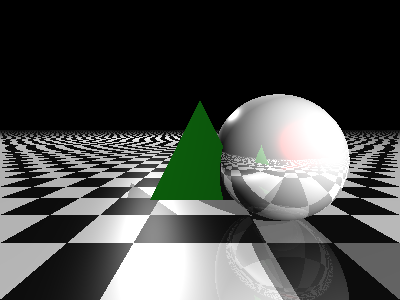
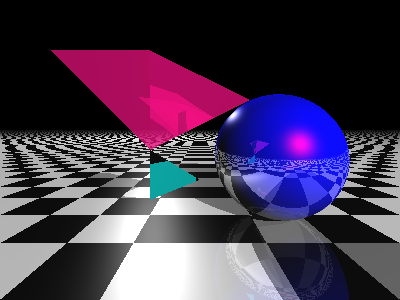
Triangles strip

Changed region(s): [[0.12, 0.15, 0.9, 0.75], [0.63, 0.84, 0.87, 1.0]]

diff --git a/scene.py b/scene.py
@@ -4,7 +4,7 @@ from util import normalize
 
 
 class Scene():
-	def __init__(self, height, width):
+	def __init__(self, height, width, name = "Scene 1"):
 		self.height = height
 		self.width = width
 		self.img = np.zeros((height, width, 3))
@@ -16,6 +16,7 @@ class Scene():
 		self._lights = []
 		self._figures = []
 		self.depth_max = 5
+		self.name = name
 
 	def add_camera(self, camera):
 		self._camera = camera
@@ -24,13 +25,13 @@ class Scene():
 		self._lights.append(light)
 
 	def add_lights(self, lights):
-		self._lights = lights
+		self._lights.extend(lights)
 
 	def add_figure(self, figure):
 		self._figures.append(figure)
 
 	def add_figures(self, figures):
-		self._figures = figures
+		self._figures.extend(figures)
 
 	def save(self, filename = 'fig.png'):
 		plt.imsave(filename, self.img)
@@ -67,13 +68,13 @@ class Scene():
 			col_ray += obj.specular_c * max(np.dot(N, normalize(toL + toO)), 0) ** self._specular_k * light.color
 		return obj, M, N, col_ray
 
-	def draw(self):
+	def draw(self, verbose = 1):
 		r = float(self.width) / self.height
 		S = (-1., -1. / r + .25, 1., 1. / r + .25)
 		col = np.zeros(3)
 
 		for i, x in enumerate(np.linspace(S[0], S[2], self.width)):
-			if i % 10 == 0:
+			if i % 10 == 0 and verbose >= 1:
 				print(f'{i / float(self.width) * 100}%')
 			for j, y in enumerate(np.linspace(S[1], S[3], self.height)):
 				col[:] = 0
@@ -94,3 +95,12 @@ class Scene():
 				    col += reflection * col_ray
 				    reflection *= obj.reflection
 				self.img[self.height - j - 1, i, :] = np.clip(col, 0, 1)
+
+
+	def __str__(self):
+		out = f'{self.name}:\n'
+		for f in self._figures:
+			out += ' - '
+			out += f.__str__()
+			out += '\n'
+		return out

diff --git a/raytracing.py b/raytracing.py
@@ -6,7 +6,7 @@ from triangle import Triangle
 from light import Light
 from camera import Camera
 from scene import Scene
-
+from triangle_strip import TriangleStrip
 
 w = 400
 h = 300
@@ -15,17 +15,24 @@ h = 300
 color_plane0 = 1. * np.ones(3)
 color_plane1 = 0. * np.ones(3)
 
-scene = Scene(h,w)
+scene = Scene(h,w, name='Amazing scene')
 scene.add_camera(Camera([0., 0.35, -1.], [0., 0., 0.]))
 scene.add_lights( [
     Light([5., 5., -10.], [1., 0., 0.]), 
     Light([-5., 10., 20.], np.ones(3))
     ])
+
+ml = np.array([-.5, 0, 0])
+v = [[-.25, .75, 0]+ml, [.25, .75, 0,]+ml, [0.25, 0.25, .0]+ml, [.75, .5, 0]+ml]
+#v = [[-.5, .5, 0], [0, .5, 0,], [0., 0, .5], [.5, .5, 0], [.5, 0, 0], [0., 0, 0.5], [.5, -.5, 0], [0, -.5, 0], [0, 0, 0.5], [-.5, -.5, 0], [-.5, 0, 0], [0, 0, 0.5], [-.5, .5, 0]]
+
+scene.add_figures(TriangleStrip(vertex = v, color = [1, 0.0, 0.5], reflection = 0.0, diffuse_c=.0, specular_c=.0).get_strip())
 scene.add_figures([
-    Sphere([.75, .1, 1.], .6, [1., 1., 1.]),
-    Triangle([.5, .25, 1.], [1., 0., 0.], [[-.25, 0, 0], [0, .5, 0], [.25, 0, 0]], [0., 1., 0.], reflection = 0.),
+    Sphere( position = [.75, .1, 1.], radius = .6, color = [0., 0., 1.]),
+    Triangle(vertex = [[-.25, 0, 0], [-.25, 0.25, 0], [0, 0, 0.4]],color = [0., 1.0, 0.98], reflection = 0.0),
     Plane([0., -.5, 0.], [0., 1., 0.], lambda M: (color_plane0 if (int(M[0] * 2) % 2) == (int(M[2] * 2) % 2) else color_plane1))
     ])
 
-scene.draw()
+print(scene)
+scene.draw(verbose=1)
 scene.save()

diff --git a/triangle.py b/triangle.py
@@ -1,11 +1,19 @@
 import numpy as np
 from figure import Figure
+from util import normalize
 
 class Triangle(Figure):
-	def __init__(self, position, normal, vertex, color, diffuse_c=.75, specular_c=.5, reflection=.25):
-		self.normal = np.array(normal)
+	def __init__(self, vertex, color, diffuse_c=.75, specular_c=.5, reflection=.25):
 		self.vertex = np.array(vertex)
-		super().__init__(np.array(position), np.array(color), diffuse_c, specular_c, reflection)
+		self.compute_normal()
+		super().__init__(np.array(vertex[1]), np.array(color), diffuse_c, specular_c, reflection)
+
+	def compute_normal(self):
+		edge1 = self.vertex[1] - self.vertex[0]
+		edge2 = self.vertex[2] - self.vertex[0]
+		N = np.cross(edge1,edge2)
+		#N /= N.sum()
+		self.normal = normalize(N)
 
 	def intersect(self, O, D):
 		# Trumbore Algorithm
@@ -36,3 +44,6 @@ class Triangle(Figure):
 
 	def get_normal(self, M):
 		return self.normal
+
+	def __str__(self):
+		return f'Triangle (v1={self.vertex[0]}, v2={self.vertex[1]}, v3={self.vertex[2]})'

diff --git a/triangle_strip.py b/triangle_strip.py
@@ -1,0 +1,19 @@
+import numpy as np
+from triangle import Triangle
+
+class TriangleStrip():
+	def __init__(self, vertex, color, diffuse_c=.75, specular_c=.5, reflection=.25):
+		self.vertex = np.array(vertex)
+		self.create_triangles(color, diffuse_c=.75, specular_c=.5, reflection=.25)
+
+	def create_triangles(self, color, diffuse_c=.75, specular_c=.5, reflection=.25):
+		size = len(self.vertex) - 2
+		self.triangles = np.empty(size, dtype=Triangle)
+		v1,v3 = 0,2
+		while v3 < len(self.vertex):
+			self.triangles[v1] = Triangle(self.vertex[v1:v3+1], color, diffuse_c, specular_c, reflection)
+			v1 += 1
+			v3 += 1
+
+	def get_strip(self):
+		return self.triangles

diff --git a/sphere.py b/sphere.py
@@ -25,3 +25,6 @@ class Sphere(Figure):
 
 	def get_normal(self, M):
 		return util.normalize(M - self.position)
+
+	def __str__(self):
+		return f"Sphere (size = {self.radius})"

diff --git a/plane.py b/plane.py
@@ -17,3 +17,6 @@ class Plane(Figure):
 
 	def get_normal(self, M):
 		return self.normal
+
+	def __str__(self):
+		return f'Plane (pos={self.position})'
